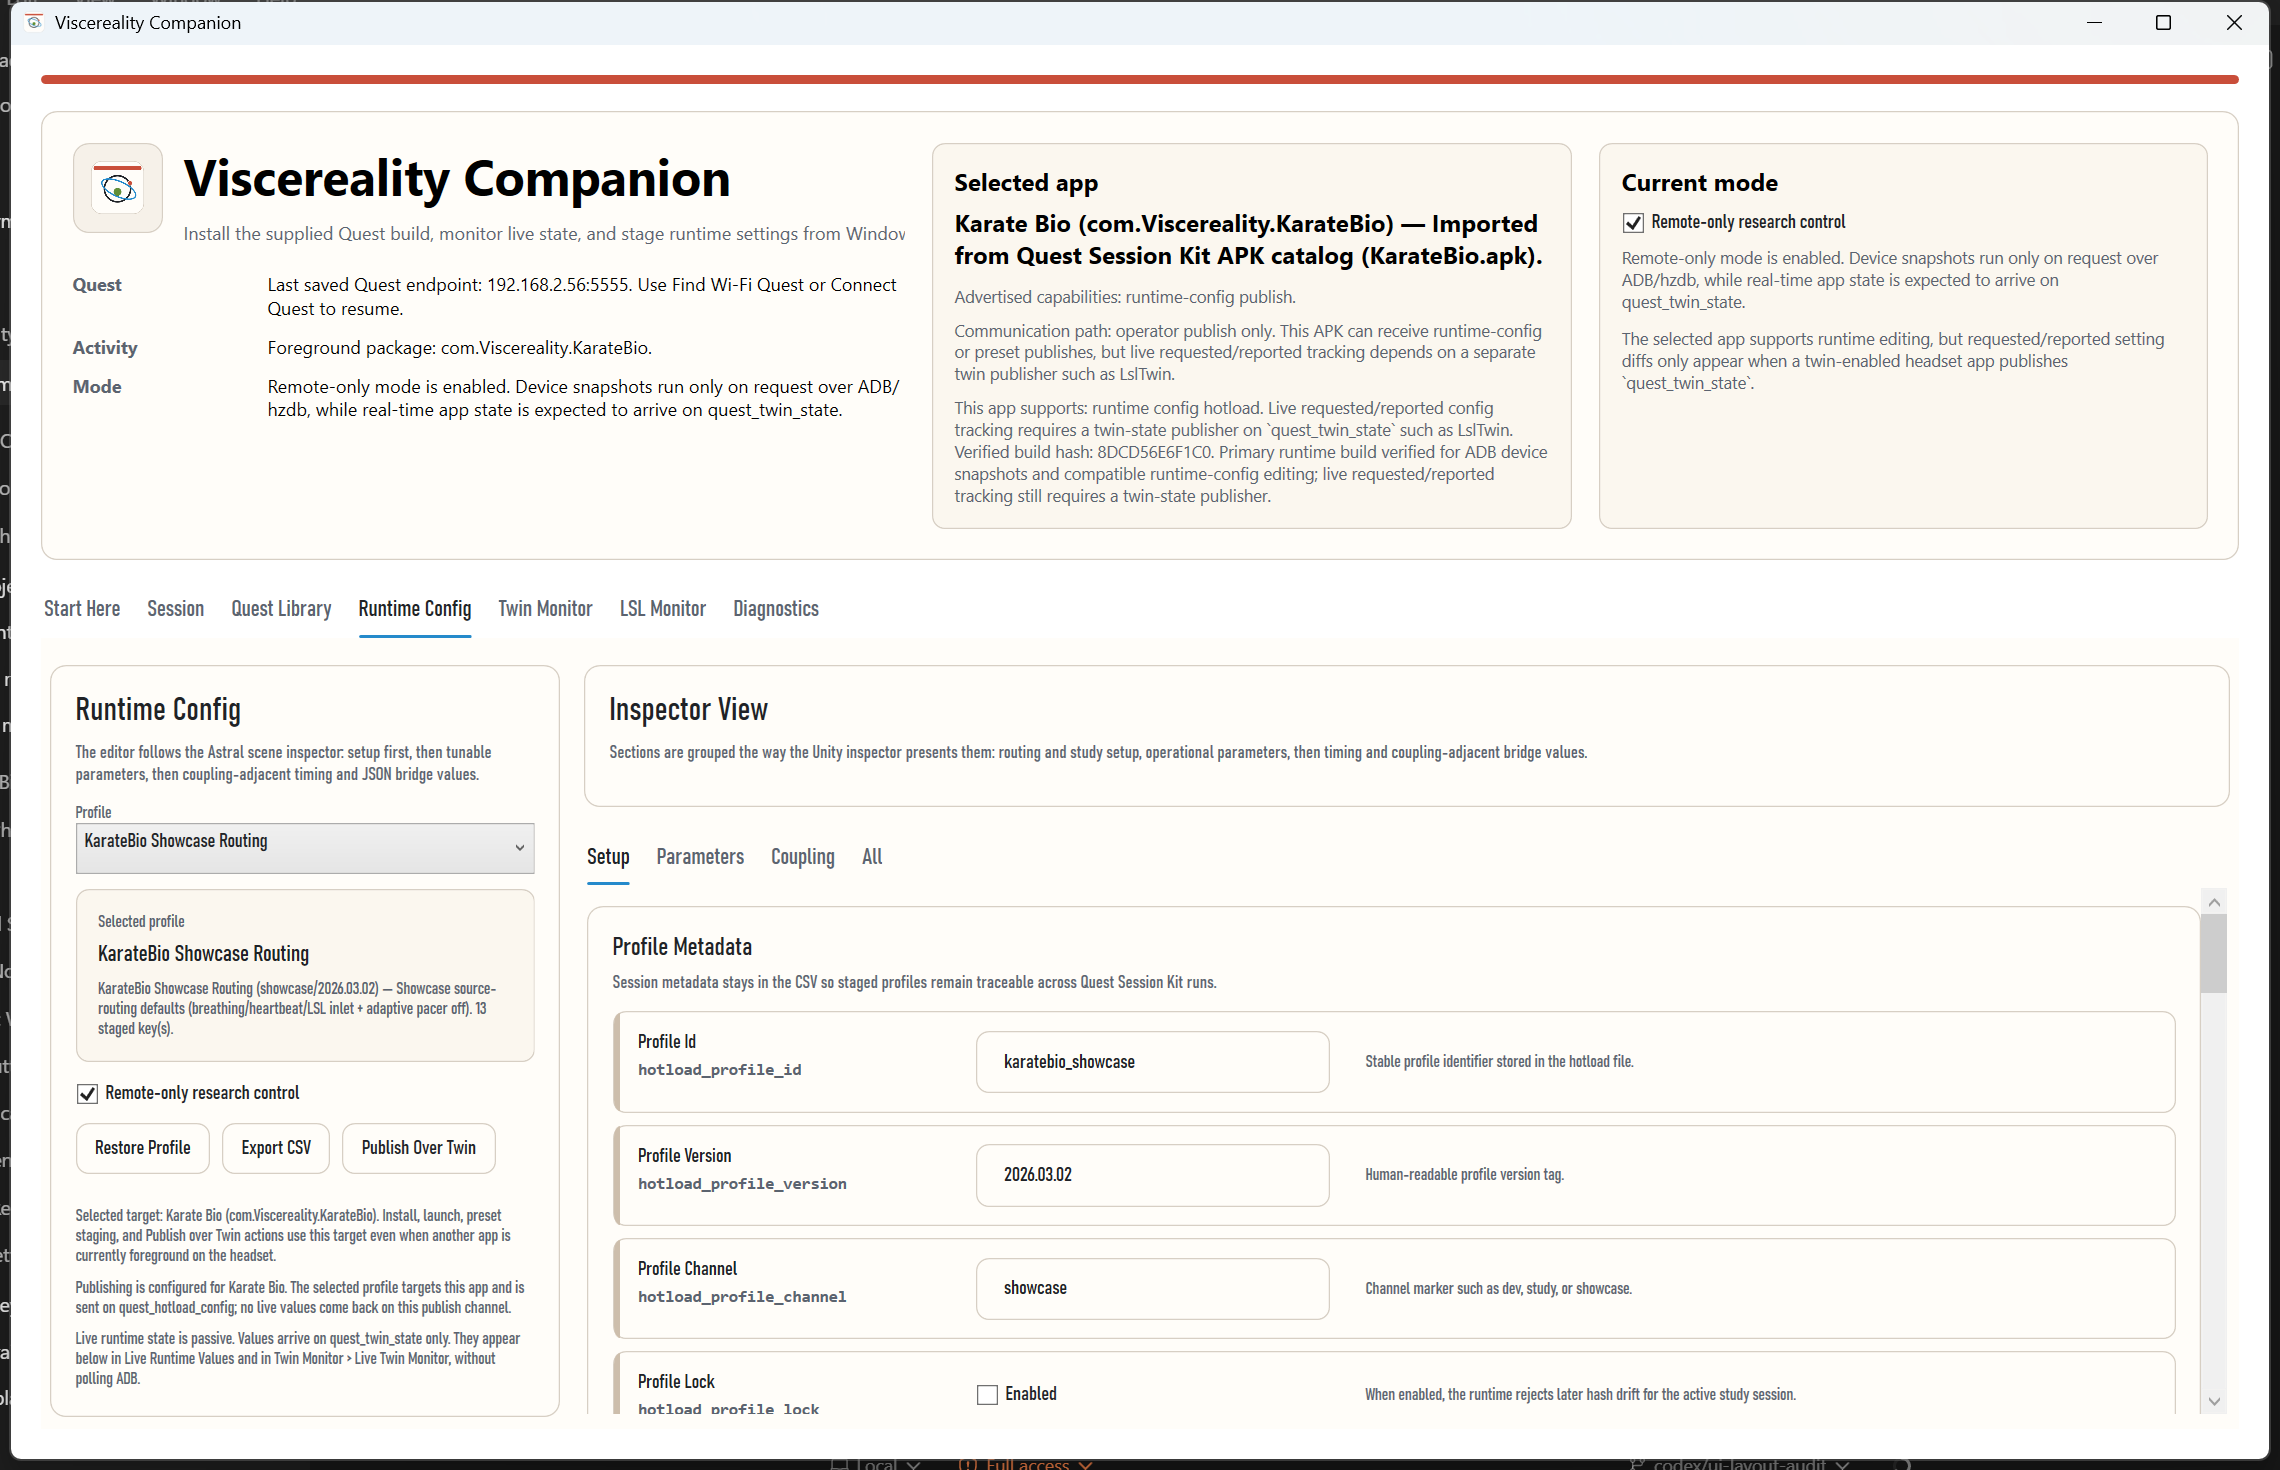
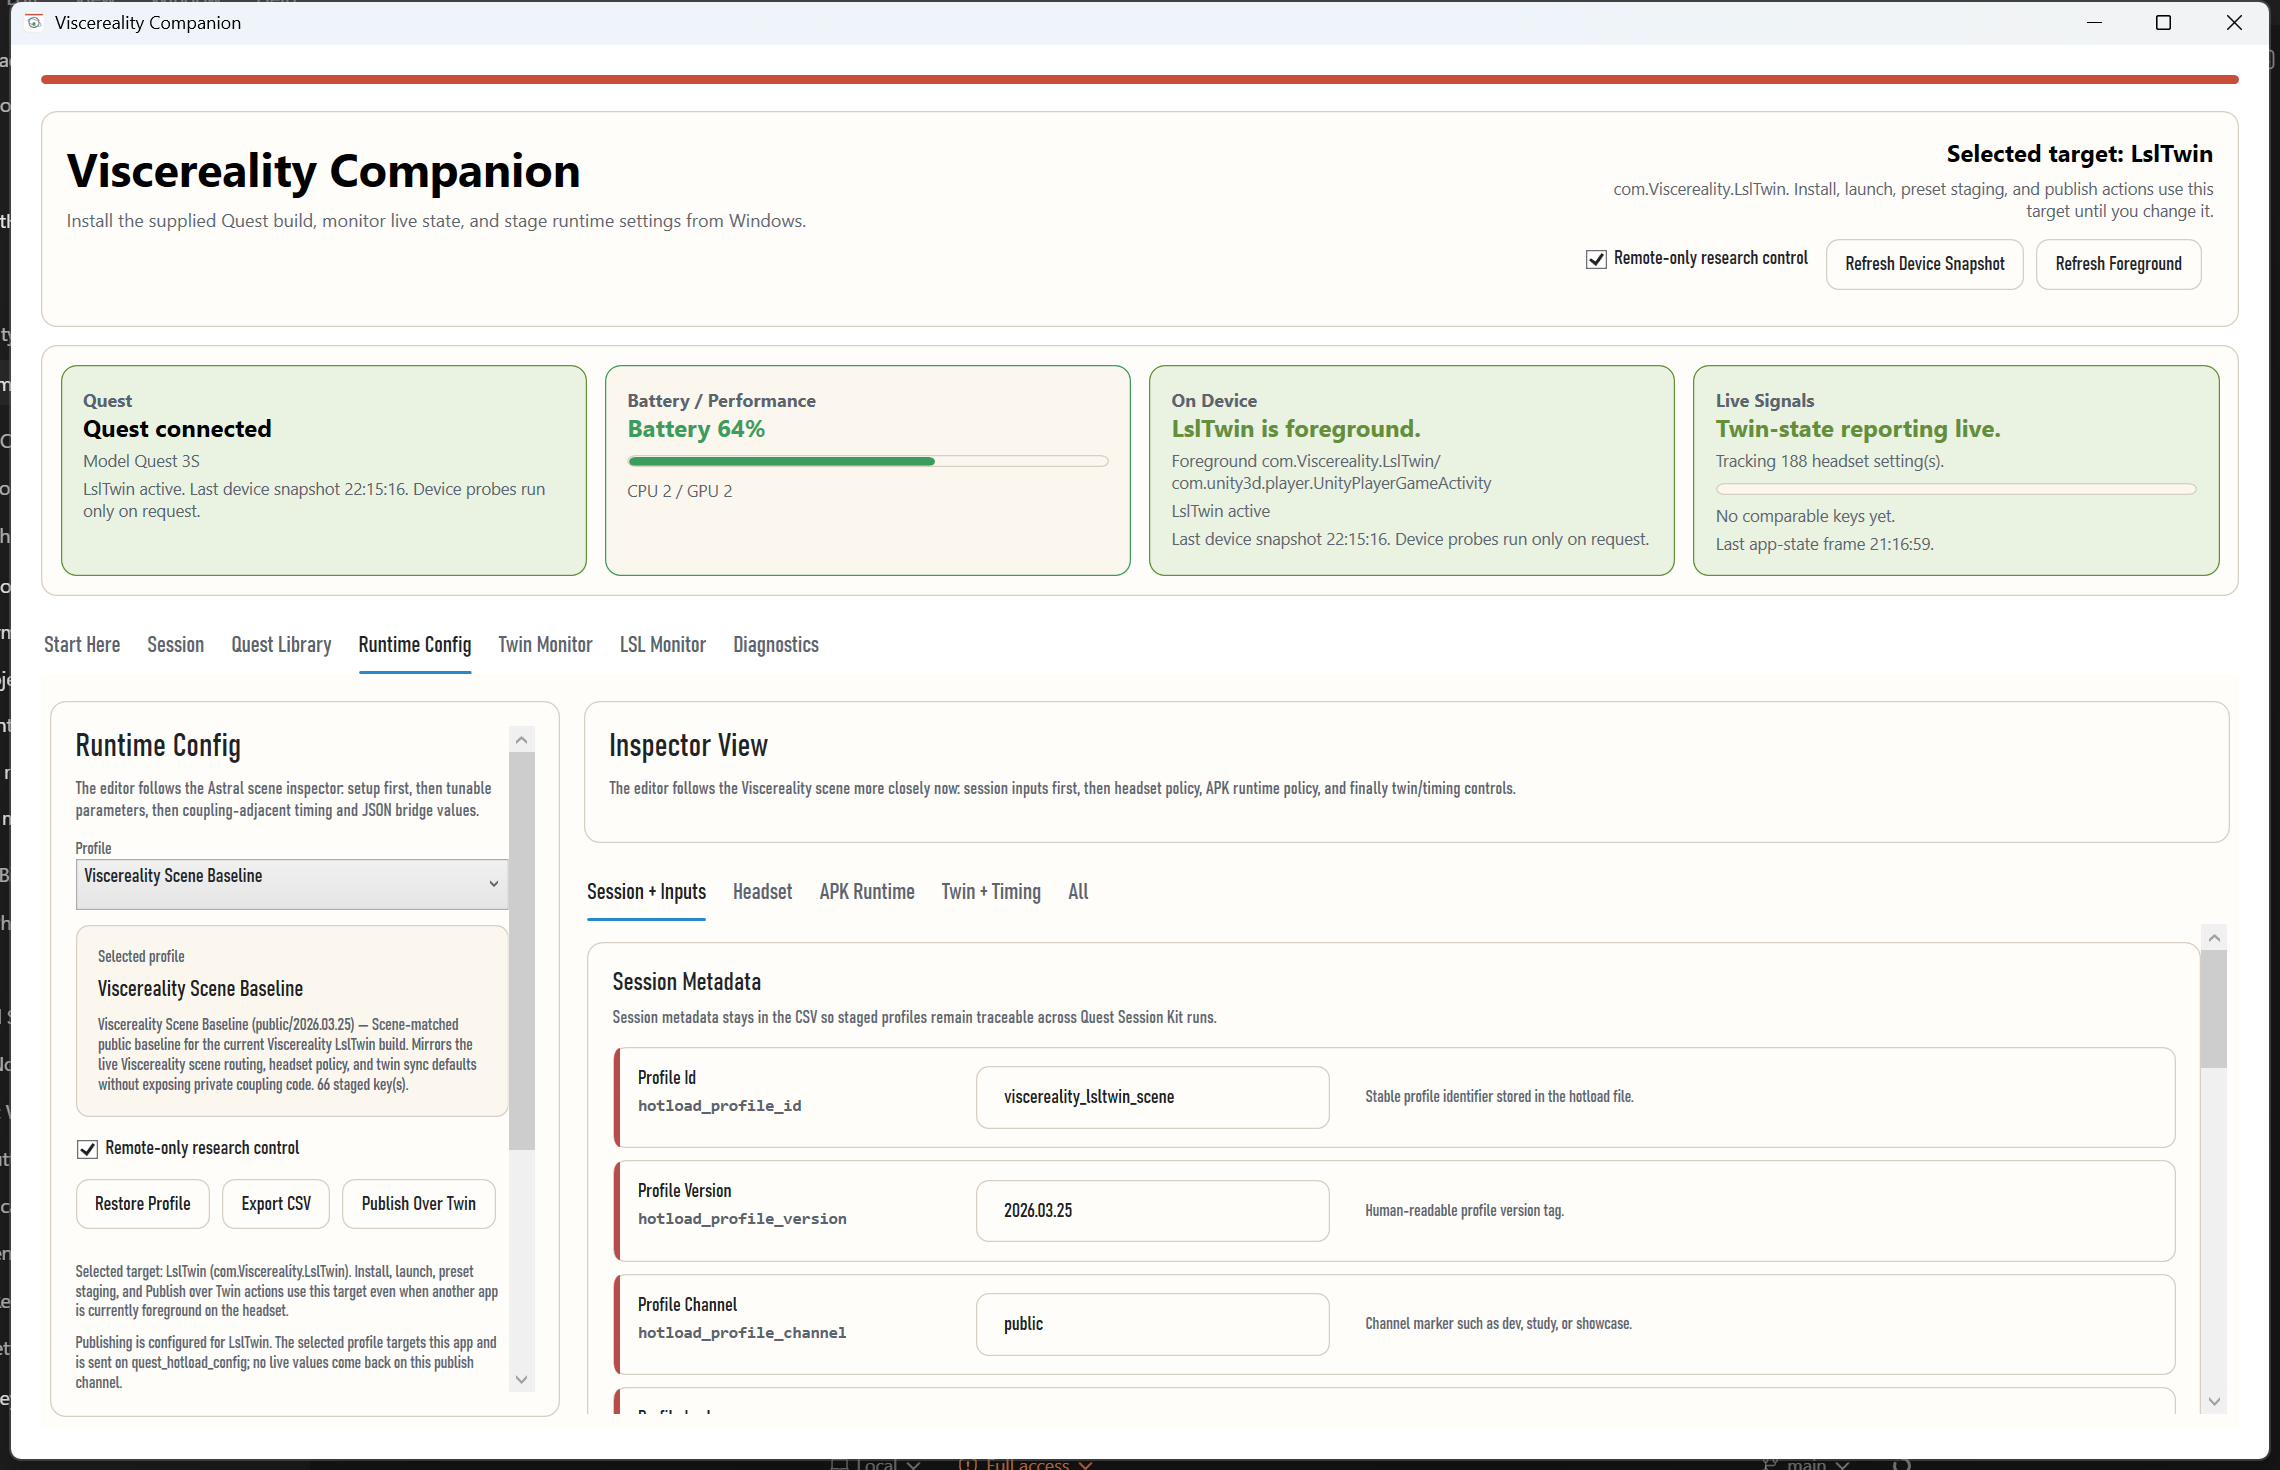
Document live Quest operator validation

diff --git a/README.md b/README.md
@@ -11,7 +11,7 @@ surface around that workflow:
 
 - WPF desktop app for Quest connection, install, launch, monitoring, and runtime-config staging
 - CLI for scriptable ADB, LSL, and twin command workflows
-- Quest Session Kit sample catalogs, hotload presets, and device profiles
+- repo-local `LslTwin` sample catalog, scene-matched hotload baseline, and device profiles
 - public runtime-config editor that mirrors the Astral inspector layout
 - Pages docs and release automation
 - Windows packaging scaffolding for a single branded launcher install path
@@ -32,6 +32,16 @@ surface around that workflow:
 
 The current research mode is intentionally remote-first: the desktop app is the
 control surface, and the APK is treated as the participant-facing runtime.
+
+## Verified Operator Path
+
+Verified on March 25, 2026 against a live Quest reachable over Wi-Fi ADB:
+
+- the app starts with no selected target until `Refresh Device Snapshot` runs
+- Quest Home leaves the target empty, while a known app can still be selected manually in `Quest Library`
+- selecting `LslTwin` and launching it from the GUI succeeded
+- applying Quest performance levels from the GUI updated the live headset to `CPU 2 / GPU 2`
+- `Twin Monitor` stayed stable and tracked `188` reported headset values from `quest_twin_state`
 
 ## Install Or Build
 

diff --git a/docs/runtime-config.md b/docs/runtime-config.md
@@ -18,21 +18,25 @@ Astral scene, not like a generic spreadsheet of keys.
 
 The editor is grouped into:
 
-- `Setup`
-- `Parameters`
-- `Coupling`
+- `Session + Inputs`
+- `Headset`
+- `APK Runtime`
+- `Twin + Timing`
 - `All`
 
-That structure keeps the first-pass operator flow readable while still letting
-you drop to the full key surface when needed.
+That split keeps Quest device policy separate from APK-side runtime policy while
+still leaving the full public key surface available when needed.
 
 ## How To Use It
 
 1. Open `Runtime Config`.
 2. Pick the staged profile you want to track.
-3. Stay in `Setup` first, then move into `Parameters`.
-4. Use `Coupling` when you need the coupling-facing config surface without mixing it into every other field.
+3. Stay in `Session + Inputs` first, then move into `Headset` or `APK Runtime`.
+4. Use `Twin + Timing` when you need sync policy, runtime timing, or the runtime-config JSON bridge without mixing those controls into every other field.
 5. Use `All` only when you need the complete document view.
+
+The public `LslTwin` sample now auto-selects the `Viscereality Scene Baseline`
+profile when that app is selected in the library.
 
 ## Current Session Behavior
 

diff --git a/docs/monitoring-and-control.md b/docs/monitoring-and-control.md
@@ -37,6 +37,10 @@ Use the app to confirm:
 - foreground package and visible activities
 - whether the expected package is still running in front
 
+If the current foreground app is outside the public catalog, the operator app
+keeps the selected target empty. That prevents a false warning state from
+appearing before you have chosen the real study APK.
+
 ### Lightweight monitor stream
 
 `LSL Monitor` is for fast transport confirmation:
@@ -54,11 +58,18 @@ you the quickest live check.
 
 - bridge status
 - live publisher detection
-- requested vs reported values
-- raw twin events
+- focused requested/reported inspection by section
+- recent twin events without rendering every live value at once
 
 Use this page when you need to verify whether the headset is reporting the
 state you expect, not just whether the basic monitor stream is alive.
+
+![Twin Monitor tab](assets/operator-shell-twin-monitor.png)
+
+On March 25, 2026, this flow was verified live against `LslTwin` over Wi-Fi
+ADB. The Windows app launched the Quest build, applied `CPU 2 / GPU 2`, and
+tracked `188` reported headset values over `quest_twin_state` without the tab
+crashing.
 
 ## What The Operator Can Control Today
 

diff --git a/docs/first-session.md b/docs/first-session.md
@@ -35,9 +35,14 @@ the headset.
 In the app:
 
 - open `Start Here` or `Quest Library`
-- select the supplied app target
+- run `Refresh Device Snapshot` first if you want the app to adopt a known
+  foreground target automatically
+- if Quest Home or another non-catalog app is foreground, select the supplied
+  target manually
 - confirm the bundle, runtime preset, and device profile
 - browse to the APK file if it is not already staged in the catalog
+
+In the committed public sample catalog, that target is currently `LslTwin`.
 
 ## 3. Install And Launch
 
@@ -102,8 +107,8 @@ viscereality twin send twin-pause
 The app auto-discovers catalogs in this order:
 
 1. `VISCEREALITY_QUEST_SESSION_KIT_ROOT` environment variable
-2. `~/source/repos/AstralKarateDojo/QuestSessionKit/`
+2. `samples/quest-session-kit/` relative to the repo root
 3. `samples/quest-session-kit/` next to the executable
-4. `samples/quest-session-kit/` relative to the repo root
+4. `~/source/repos/AstralKarateDojo/QuestSessionKit/`
 
 Override with the `--root` flag in the CLI or set the environment variable.

diff --git a/docs/getting-started.md b/docs/getting-started.md
@@ -33,12 +33,21 @@ The app runs against the committed sample session-kit catalogs under
 `samples/quest-session-kit/` and the public runtime-config profiles under
 `samples/oscillator-config/`.
 
+The repo-local session-kit sample is now the preferred default source. It
+currently contains one public Quest target, `LslTwin`, plus one scene-matched
+runtime baseline. That keeps older internal APK and profile variants out of the
+public operator shell unless you explicitly point it at another catalog root.
+
 If `adb` is available, the Windows shell will use it automatically for:
 
 - USB probe and Wi-Fi ADB bootstrap
 - direct APK install from the selected file path
 - device profile application and explicit CPU/GPU level updates
 - app launch and headset status polling
+
+The shell does not auto-select a target on startup anymore. It waits for an
+explicit headset snapshot. If the current foreground app is not in the public
+catalog, the target remains empty until you choose one manually.
 
 ## CLI Tool
 

diff --git a/docs/app-overview.md b/docs/app-overview.md
@@ -47,9 +47,10 @@ This is the detailed study-build workspace:
 The runtime-config editor follows the Astral inspector structure as closely as
 possible from the desktop side:
 
-- `Setup`
-- `Parameters`
-- `Coupling`
+- `Session + Inputs`
+- `Headset`
+- `APK Runtime`
+- `Twin + Timing`
 - `All`
 
 That makes it usable both as a tracking surface and as the place where desktop
@@ -65,7 +66,9 @@ contract:
 - remote-only research control stays enabled by default
 - the desktop app owns trigger commands and tracked settings
 - the APK reports state
-- `Twin Monitor` focuses on requested vs reported comparisons rather than on-device editing
+- `Twin Monitor` uses a focused inspector so large live state snapshots stay readable instead of becoming one giant raw grid
+
+![Twin Monitor tab](assets/operator-shell-twin-monitor.png)
 
 ## LSL Monitor
 
